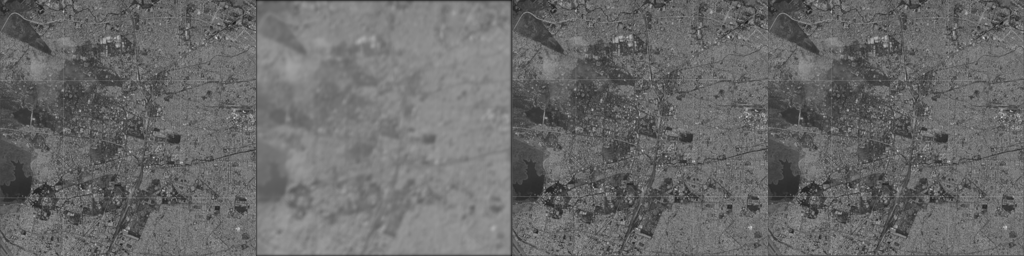
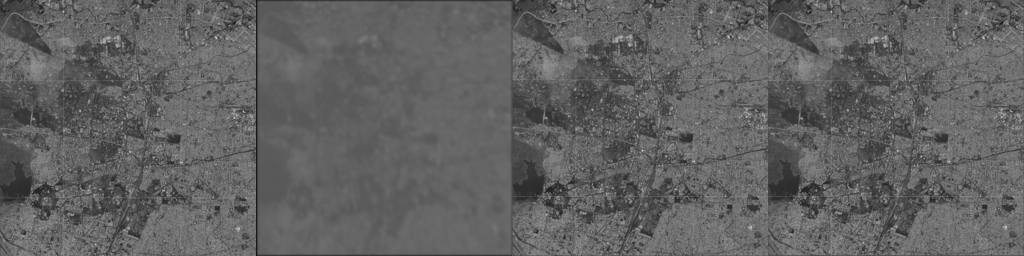
sequence_002 is being added

Changed region(s): [[0.25, 0.0, 0.5, 1.0]]

diff --git a/src/dataset.py b/src/dataset.py
@@ -37,8 +37,6 @@ class FrameInterpolationDataset(Dataset):
         self.frames = frames
         self.gap = gap
         self.num_frames = frames.shape[0]
-
-        # t from 0 to num_frames - gap - 1
         self.num_samples = self.num_frames - self.gap - 1
 
     def __len__(self):
@@ -46,19 +44,17 @@ class FrameInterpolationDataset(Dataset):
 
     def __getitem__(self, idx):
         t = idx
-        t_mid = t + 1      # for gap=2, middle is t+1
+        t_mid = t + 1
         t_end = t + self.gap
 
         frame_t = self.frames[t]
         frame_t_mid_target = self.frames[t_mid]
         frame_t_end = self.frames[t_end]
 
-        # Stack input frames: shape (2, H, W)
         input_frames = np.stack([frame_t, frame_t_end], axis=0)
 
-        # Convert to tensors
-        input_tensor = torch.from_numpy(input_frames).float()          # (2, H, W)
-        target_tensor = torch.from_numpy(frame_t_mid_target).float()   # (H, W)
+        input_tensor = torch.from_numpy(input_frames).float()
+        target_tensor = torch.from_numpy(frame_t_mid_target).float()
 
         return input_tensor, target_tensor
 
@@ -68,18 +64,24 @@ class FrameInterpolationDataset(Dataset):
 # =========================
 
 class SatTemporalDataset(Dataset):
-    def __init__(self, root_dir, gap=2, resize_to=(256, 256)):
+    def __init__(self, root_dir, gap=2, resize_to=(256, 256), sequences=None):
         """
         root_dir: path to 'data' folder containing sequence_* subfolders
         gap: temporal gap between input frames (e.g., t and t+gap)
         resize_to: (W, H) to resize all frames so shapes match
+        sequences: list of sequence folder names to use,
+                   e.g. ["sequence_002"]. If None, use all sequence_* folders.
         """
         self.root_dir = root_dir
         self.gap = gap
         self.resize_to = resize_to
         self.samples = []  # list of (frame_paths, t_start)
 
-        seq_dirs = sorted(glob(os.path.join(root_dir, "sequence_*")))
+        if sequences is None:
+            seq_dirs = sorted(glob(os.path.join(root_dir, "sequence_*")))
+        else:
+            seq_dirs = [os.path.join(root_dir, s) for s in sequences]
+
         for seq in seq_dirs:
             frame_paths = sorted(glob(os.path.join(seq, "t*.png")))
             num_frames = len(frame_paths)
@@ -90,6 +92,7 @@ class SatTemporalDataset(Dataset):
                 if t_mid < num_frames and t_end < num_frames:
                     self.samples.append((frame_paths, t_start))
 
+        print(f"[SatTemporalDataset] Using sequences: {sequences if sequences is not None else 'ALL'}")
         print(f"[SatTemporalDataset] Found {len(self.samples)} triplets")
 
     def __len__(self):
@@ -111,7 +114,6 @@ class SatTemporalDataset(Dataset):
         frame_mid = load_frame(frame_paths[t_mid])
         frame_end = load_frame(frame_paths[t_end])
 
-        # Stack inputs (2, H, W)
         input_frames = np.stack([frame_t, frame_end], axis=0)
         input_tensor = torch.from_numpy(input_frames).float()
         target_tensor = torch.from_numpy(frame_mid).float()

diff --git a/train_day3.py b/train_day3.py
@@ -44,11 +44,17 @@ def main():
     data_root = os.path.join(project_root, "data")
     print("Data root:", data_root)
 
-    dataset = SatTemporalDataset(root_dir=data_root, gap=2, resize_to=(256, 256))
+    # Use only sequence_002
+    dataset = SatTemporalDataset(
+        root_dir=data_root,
+        gap=2,
+        resize_to=(256, 256),
+        sequences=["sequence_002"],
+    )
     dataloader = DataLoader(dataset, batch_size=4, shuffle=True)
 
     if len(dataset) == 0:
-        print("No samples found in SatTemporalDataset. Check your data folder.")
+        print("No samples found in SatTemporalDataset. Check your data folder and sequence_002.")
         return
 
     # 2. Prepare model, loss, optimizer